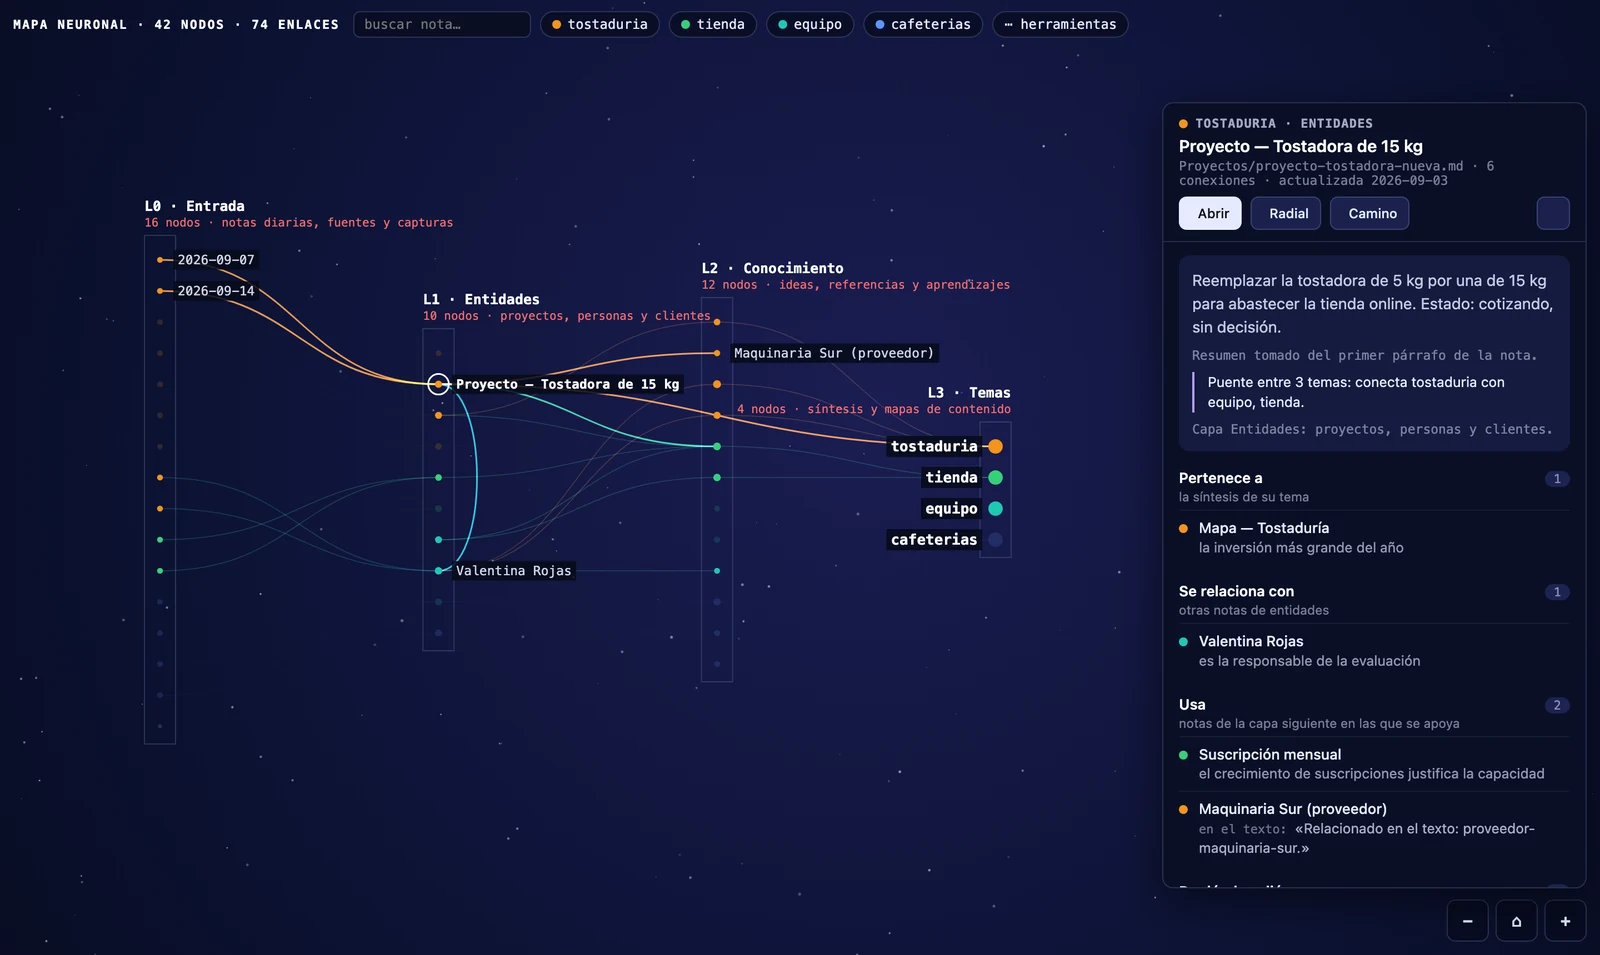
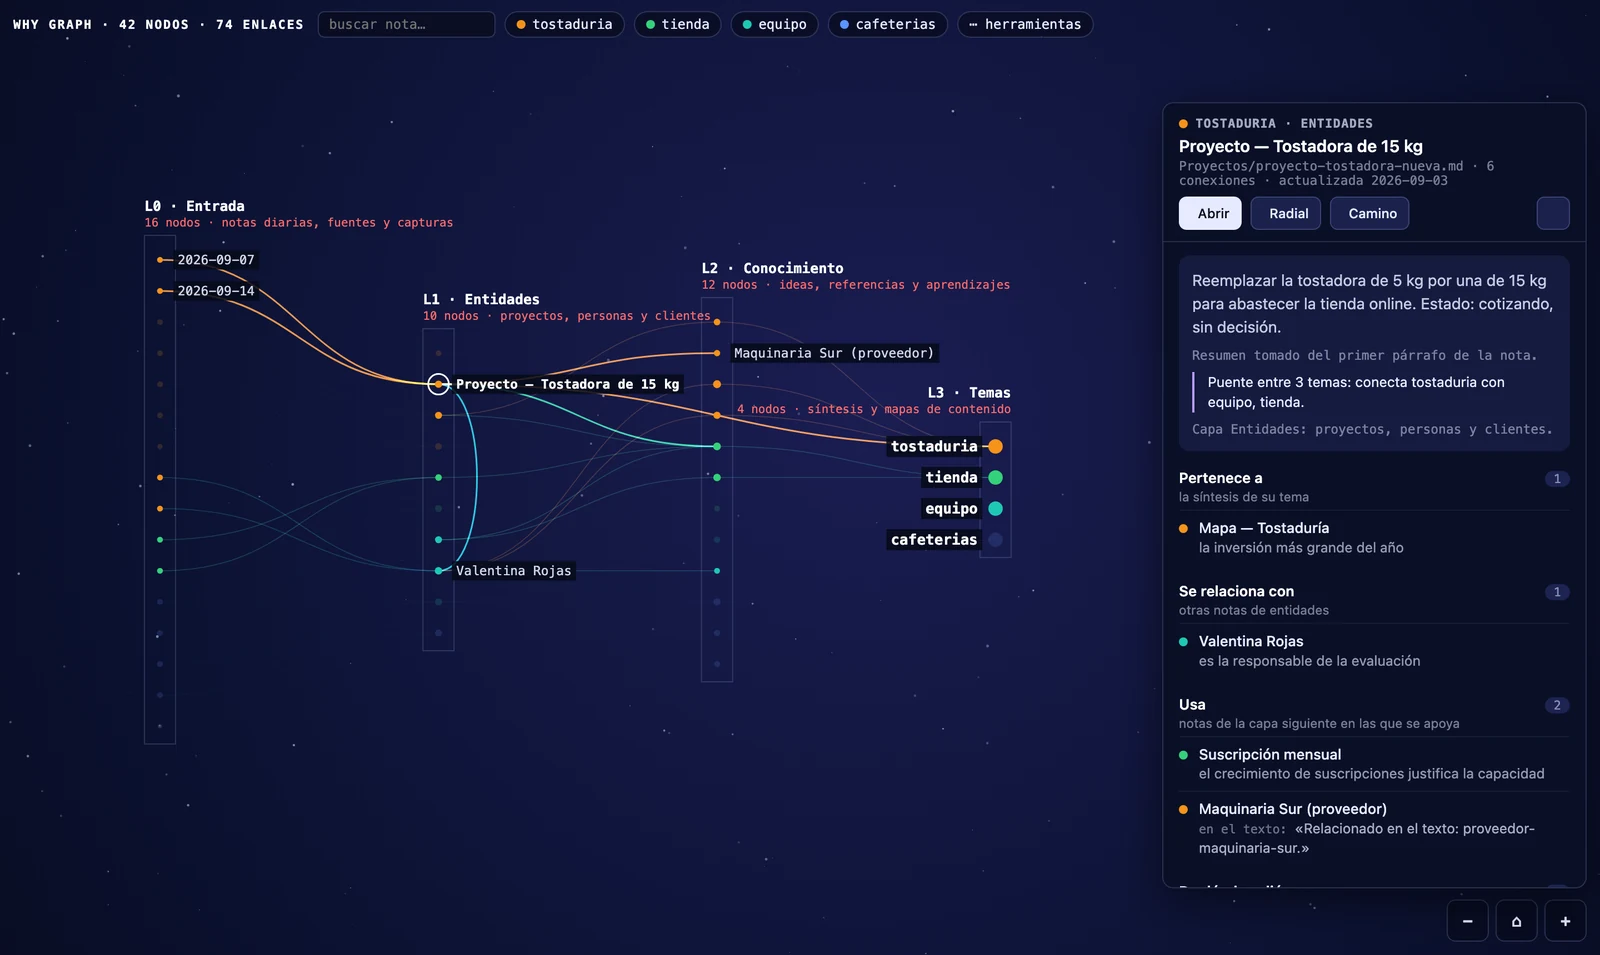
1.19.0 — el nombre visible pasa a «Why Graph»
Investigado antes de elegir: entre los 7.685 plugins del directorio, CERO usan la
palabra «why» —la que nombra la diferencia del producto— y cero se llaman así.
Fuera de Obsidian tampoco hay producto con ese nombre, mientras «Connectome» ya
tiene una app de salud en el App Store y arrastra el proyecto del NIH.

Lo que cambia: el nombre que se ve, en el manifest, en la pestaña, en el
encabezado del mapa, en el pie de los ajustes y en los dos README.

Lo que NO cambia, a propósito: el id sigue siendo «mapa-neuronal». Cambiarlo
costaría la ficha del directorio y las instalaciones existentes. Los nombres de
archivo (mapa-neuronal-motivos.md, las exportaciones) y las clases CSS también se
quedan quietos. Así el nombre comercial vende y el id cuenta de dónde viene.

Agregado: ícono propio (docs/imagenes/icono.py — tres capas y la línea que las
cruza, legible a 32 px) y pruebas/mirador/ficha.sh, que genera las capturas en las
medidas exactas del directorio: 1200x800 escritorio y 900x1600 celular.

Changed region(s): [[0.3125, 0.0, 0.7188, 0.0607], [0.0, 0.0, 0.2812, 0.0304]]

diff --git a/src/main.js b/src/main.js
@@ -1,4 +1,8 @@
-/* Mapa neuronal — plugin propio del segundo cerebro.
+/* Why Graph (id: mapa-neuronal) — el grafo que explica por qué cada nota se conecta.
+ *
+ * v1.19 (16.09.2026): el nombre visible pasa a «Why Graph». El id, los nombres de archivo y
+ *   las clases CSS se quedan como están: cambiarlos costaría la ficha del directorio.
+ *
  *
  * v1.0 (15.09.2026): el mapa por capas dentro de Obsidian, en vivo y táctil.
  * v1.9 (15.09.2026): interfaz en inglés y español, según el idioma de Obsidian (getLanguage()); los
@@ -70,7 +74,7 @@ const EN = {
   'Acercar': 'Zoom in',
   'Cada línea es un enlace real. Toca una nota para leer por qué se conecta. Arriba, en «⋯ herramientas»: caminos, vacíos, vista radial y exportar. El botón ⌂ vuelve a encuadrar el mapa.':
     'Every line is a real link. Tap a note to read why it connects. Up top, under "⋯ tools": paths, gaps, radial view and export. The ⌂ button re-fits the map.',
-  'Mapa neuronal · {0} nodos · {1} enlaces': 'Neural map · {0} nodes · {1} links',
+  '{0} · {1} nodos · {2} enlaces': '{0} · {1} nodes · {2} links',
   ' · {0} con enlaces': ' · {0} with links',
   '{0} nodos': '{0} nodes',
   ' · +{0} ocultas': ' · +{0} hidden',
@@ -262,7 +266,7 @@ const EN = {
   'El resumen tiene {0} palabras; debe ser breve.': 'The summary is {0} words long; it should be brief.',
   'Una cita no aparece literal en la nota: se bloquea para no guardar algo no verificable.':
     'One quote does not appear literally in the note: blocked, so nothing unverifiable gets saved.',
-  'Aprobaciones desde el mapa neuronal': 'Approvals from the neural map',
+  'Aprobaciones desde {0}': 'Approvals from {0}',
   // ajustes nuevos
   'Propiedad de enlaces externos': 'External links property',
   'Propiedades del frontmatter con enlaces web, separadas por coma. Acepta «Título | https://…», «https://…» y «usuario/repo». Vacío = no se muestran.':
@@ -327,6 +331,9 @@ const T = (clave, ...vals) => {
 
 const VISTA = 'mapa-neuronal';
 const MARCA = 'DBB Labs';
+// El nombre visible. El id del plugin sigue siendo «mapa-neuronal»: cambiarlo costaría la
+// ficha del directorio y las instalaciones. Los nombres de archivo también se dejan quietos.
+const NOMBRE = 'Why Graph';
 const PALETA = ['#F7931A', '#34D17A', '#1FC8B4', '#5B95FF', '#F5CF45', '#B79CFF', '#FF7EB6', '#8BE9FD', '#FFB86C', '#A3E635'];
 const AJUSTES_BASE = {
   capas: 'Entrada | notas con fecha\nNotas | el resto del vault',
@@ -570,7 +577,7 @@ class VistaMapa extends ItemView {
     this.N = []; this.E = [];
   }
   getViewType() { return VISTA; }
-  getDisplayText() { return 'Mapa neuronal'; }
+  getDisplayText() { return NOMBRE; }
   getIcon() { return 'brain-circuit'; }
 
   async onOpen() {
@@ -578,7 +585,7 @@ class VistaMapa extends ItemView {
     this.lienzo = raiz.createEl('canvas', { cls: 'mn-lienzo' });
     this.ctx = this.lienzo.getContext('2d');
     const barra = raiz.createDiv('mn-barra'); this.barra = barra;
-    this.marca = barra.createDiv({ cls: 'mn-marca', text: 'Mapa neuronal' });
+    this.marca = barra.createDiv({ cls: 'mn-marca', text: NOMBRE });
     const buscar = barra.createEl('input', { type: 'search', placeholder: T('buscar nota…'), cls: 'mn-buscar' });
     this.registerDomEvent(buscar, 'input', () => { this.filtro = buscar.value.trim().toLowerCase(); this.pedir(); });
     this.registerDomEvent(buscar, 'keydown', (e) => { if (e.key !== 'Enter' || !this.filtro) return; const n = this.N.find((x) => (x.titulo + ' ' + x.id).toLowerCase().includes(this.filtro)); if (n) { buscar.value = ''; this.filtro = ''; this.enfocar(n.id, true); } else new Notice(T('No hay notas con ese nombre')); });
@@ -695,7 +702,7 @@ class VistaMapa extends ItemView {
     this.D.nodos.forEach((n) => { if (n.capa === ultima && n.tema && n.propio && !this.hubs[n.tema]) this.hubs[n.tema] = n.id; });
     [...this.colapsados].forEach((t) => { if (!this.D.temas[t]) this.colapsados.delete(t); });
     const conEnlaces = this.D.nodos.filter((n) => n.enlaces && n.enlaces.length).length;
-    this.marca.setText(T('Mapa neuronal · {0} nodos · {1} enlaces', this.D.nodos.length, this.D.aristas.length) + (conEnlaces ? T(' · {0} con enlaces', conEnlaces) : ''));
+    this.marca.setText(T('{0} · {1} nodos · {2} enlaces', NOMBRE, this.D.nodos.length, this.D.aristas.length) + (conEnlaces ? T(' · {0} con enlaces', conEnlaces) : ''));
     if (this.solo && !this.D.temas[this.solo]) this.solo = null;
     if (this.vacios) this.listaVacios = this.calcularVacios();
     this.rehacer();
@@ -1480,7 +1487,7 @@ class AjustesMapa extends PluginSettingTab {
       .addButton((b) => b.setButtonText(T('Restablecer')).onClick(async () => { p.ajustes = Object.assign({}, AJUSTES_BASE); await p.guardar(); this.display(); }));
     c.createEl('p', { cls: 'setting-item-description', text: T('Restablecer no borra la llave guardada en este dispositivo.') });
     const pie = c.createEl('p', { cls: 'mn-pie' });
-    pie.appendText(`Mapa neuronal ${p.manifest?.version || ''} · Powered by`);
+    pie.appendText(`${NOMBRE} ${p.manifest?.version || ''} · Powered by`);
     // El nombre de la marca va en una constante: la regla de mayúsculas del linter revisa
     // los textos escritos a mano y no puede saber que «DBB Labs» es un nombre propio.
     const enlace = pie.createEl('a', { href: 'https://dontbuybuild.cl', attr: { 'aria-label': `Powered by ${MARCA}` } });
@@ -1634,7 +1641,7 @@ export default class MapaNeuronal extends Plugin {
     if (!this.app.vault.getFolderByPath(carpeta)) await this.app.vault.createFolder(carpeta);
     const registro = this.app.vault.getFileByPath(ruta);
     if (registro) await this.app.vault.append(registro, entrada);
-    else await this.app.vault.create(ruta, `---\ndate: ${hoyStr}\nsource: mapa-neuronal\n---\n\n# ${T('Aprobaciones desde el mapa neuronal')}\n` + entrada);
+    else await this.app.vault.create(ruta, `---\ndate: ${hoyStr}\nsource: mapa-neuronal\n---\n\n# ${T('Aprobaciones desde {0}', NOMBRE)}\n` + entrada);
   }
   // Escribe el motivo aprobado en la sección final de la nota de origen y deja registro de auditoría.
   async aprobar(fr, res) {

diff --git a/docs/imagenes/icono.py b/docs/imagenes/icono.py
@@ -1,0 +1,70 @@
+#!/usr/bin/env python3
+"""El ícono de Why Graph: tres capas de notas y una línea que las cruza con su motivo.
+
+Tiene que leerse a 32 px, así que solo hay tres elementos: las columnas, la curva y el
+punto de origen encendido. Nada de texto ni degradados finos, que a ese tamaño desaparecen.
+"""
+import pathlib, subprocess
+
+SUP = '#0B1026'      # el azul del mapa
+TEAL = '#1FC8B4'     # la línea que explica, el acento
+NARANJA = '#F7931A'  # el nodo de origen
+TENUE = '#3A4780'    # las notas que no están en el camino
+
+L = 512
+R = 112              # radio de la esquina redondeada (misma proporción que un ícono de macOS)
+
+# Tres columnas (capas), cinco notas cada una. Coordenadas a mano para que respire.
+COLS = [130, 256, 382]
+FILAS = [150, 256, 362]          # tres notas por columna: a 32 px, cinco se empastan
+CAMINO = [(0, 2), (1, 0), (2, 1)]  # (columna, fila) del recorrido que se ilumina
+
+
+def svg():
+    p = [f'<svg xmlns="http://www.w3.org/2000/svg" viewBox="0 0 {L} {L}" width="{L}" height="{L}" '
+         f'role="img" aria-label="Why Graph">',
+         f'<rect width="{L}" height="{L}" rx="{R}" fill="{SUP}"/>']
+
+    # las columnas, apenas insinuadas: dan la idea de capas sin robar atención
+    for x in COLS:
+        p.append(f'<rect x="{x - 19}" y="{FILAS[0] - 30}" width="38" height="{FILAS[-1] - FILAS[0] + 60}" '
+                 f'rx="19" fill="none" stroke="{TENUE}" stroke-opacity=".45" stroke-width="4"/>')
+
+    # todas las notas, tenues
+    en_camino = set(CAMINO)
+    for ci, x in enumerate(COLS):
+        for fi, y in enumerate(FILAS):
+            if (ci, fi) in en_camino:
+                continue
+            p.append(f'<circle cx="{x}" cy="{y}" r="12" fill="{TENUE}"/>')
+
+    # la línea: de la primera capa a la última, pasando por el medio. Es el «por qué».
+    (c0, f0), (c1, f1), (c2, f2) = CAMINO
+    x0, y0 = COLS[c0], FILAS[f0]
+    x1, y1 = COLS[c1], FILAS[f1]
+    x2, y2 = COLS[c2], FILAS[f2]
+    p.append(f'<path d="M {x0} {y0} C {(x0 + x1) / 2 + 40} {y0}, {(x0 + x1) / 2 - 40} {y1}, {x1} {y1} '
+             f'S {(x1 + x2) / 2 + 40} {y2}, {x2} {y2}" fill="none" stroke="{TEAL}" stroke-width="17" '
+             f'stroke-linecap="round"/>')
+
+    # los nodos del camino: el de origen en naranja, los otros en el acento
+    p.append(f'<circle cx="{x0}" cy="{y0}" r="24" fill="{NARANJA}"/>')
+    p.append(f'<circle cx="{x1}" cy="{y1}" r="19" fill="{TEAL}"/>')
+    p.append(f'<circle cx="{x2}" cy="{y2}" r="19" fill="{TEAL}"/>')
+    p.append('</svg>')
+    return '\n'.join(p)
+
+
+aqui = pathlib.Path(__file__).parent
+(aqui / 'icono.svg').write_text(svg())
+print('icono.svg')
+
+# PNG a los tamaños que piden las tiendas y para mirarlo a tamaño real
+CHROME = '/Applications/Google Chrome.app/Contents/MacOS/Google Chrome'
+for lado in (512, 1024):
+    escala = lado / L
+    subprocess.run([CHROME, '--headless', '--disable-gpu', '--hide-scrollbars',
+                    f'--force-device-scale-factor={escala}', f'--window-size={L},{L}',
+                    f'--screenshot={aqui}/icono-{lado}.png', '--virtual-time-budget=2500',
+                    f'file://{aqui}/icono.svg'], capture_output=True)
+    print(f'icono-{lado}.png')

diff --git a/README.es.md b/README.es.md
@@ -1,4 +1,4 @@
-# Mapa neuronal
+# Why Graph
 
 *Español · [Read in English](README.md)*
 
@@ -8,7 +8,7 @@ con la siguiente.**
 El grafo de Obsidian te muestra *que* dos notas están enlazadas. Nunca te dice *por qué*.
 Con unos cientos de notas es una madeja: bonita, e inútil para pensar.
 
-Mapa neuronal ordena tus notas en capas, de izquierda a derecha, como la información se
+Why Graph ordena tus notas en capas, de izquierda a derecha, como la información se
 mueve de verdad en una base de conocimiento: lo que entra → de qué se trata → lo que
 aprendiste → en qué se sintetiza. Toca cualquier nota y obtienes la frase en la que se
 escribió el enlace. No una suposición: la línea real de tu propia nota.
@@ -88,7 +88,7 @@ se escriba una línea en tu nota. La versión interactiva del diagrama está en
 
 ### Desde el directorio de la comunidad
 
-Complementos de la comunidad → Explorar → buscar "Mapa neuronal" → Instalar → Activar.
+Complementos de la comunidad → Explorar → buscar "Why Graph" → Instalar → Activar.
 *(En revisión al momento de escribir esto — mientras tanto, cualquiera de las dos formas de abajo.)*
 
 ### Con BRAT — se instala y se actualiza solo

diff --git a/README.md b/README.md
@@ -1,4 +1,4 @@
-# Mapa neuronal
+# Why Graph
 
 *English · [Leer en español](README.es.md)*
 
@@ -7,7 +7,7 @@
 Obsidian's graph shows you *that* two notes are linked. It never tells you *why*. In a
 vault of a few hundred notes that is a hairball: pretty, and useless for thinking.
 
-Mapa neuronal lays your notes out in layers, left to right, the way information actually
+Why Graph lays your notes out in layers, left to right, the way information actually
 moves through a knowledge base: what comes in → what it is about → what you learned →
 what it all adds up to. Click any note and you get the sentence in which the link was
 written. Not a guess: the real line from your own note.
@@ -90,7 +90,7 @@ open it in a browser.
 
 ### From the community directory
 
-Community plugins → Browse → search "Mapa neuronal" → Install → Enable.
+Community plugins → Browse → search "Why Graph" → Install → Enable.
 *(Pending review at the time of writing — use one of the two ways below meanwhile.)*
 
 ### With BRAT — installs and keeps updating itself
